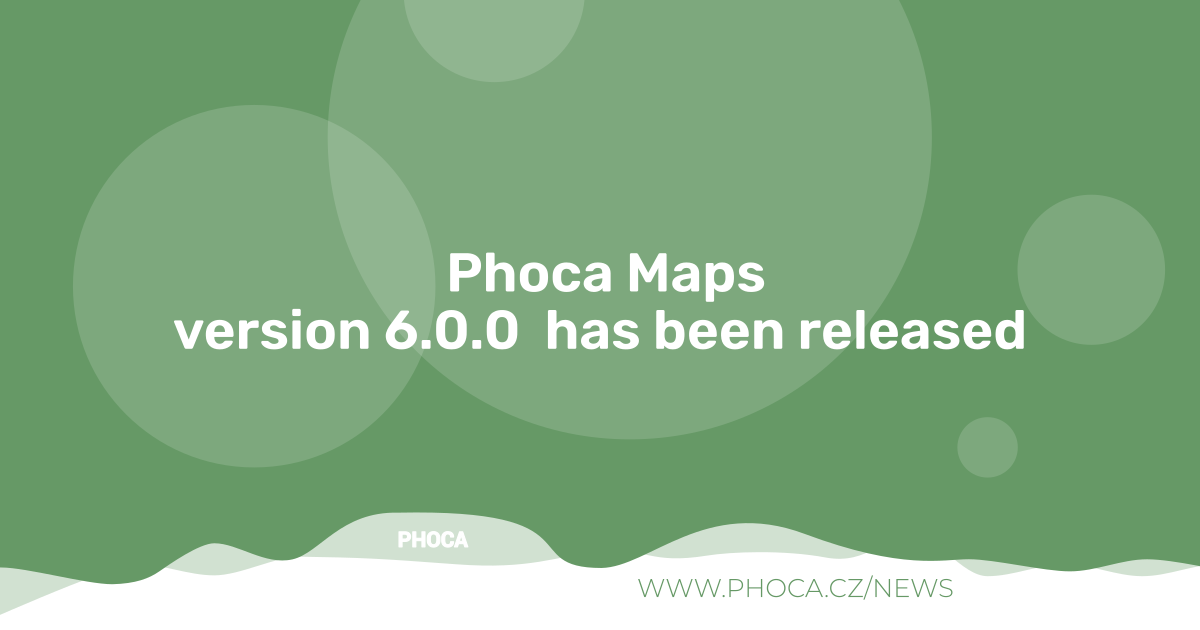
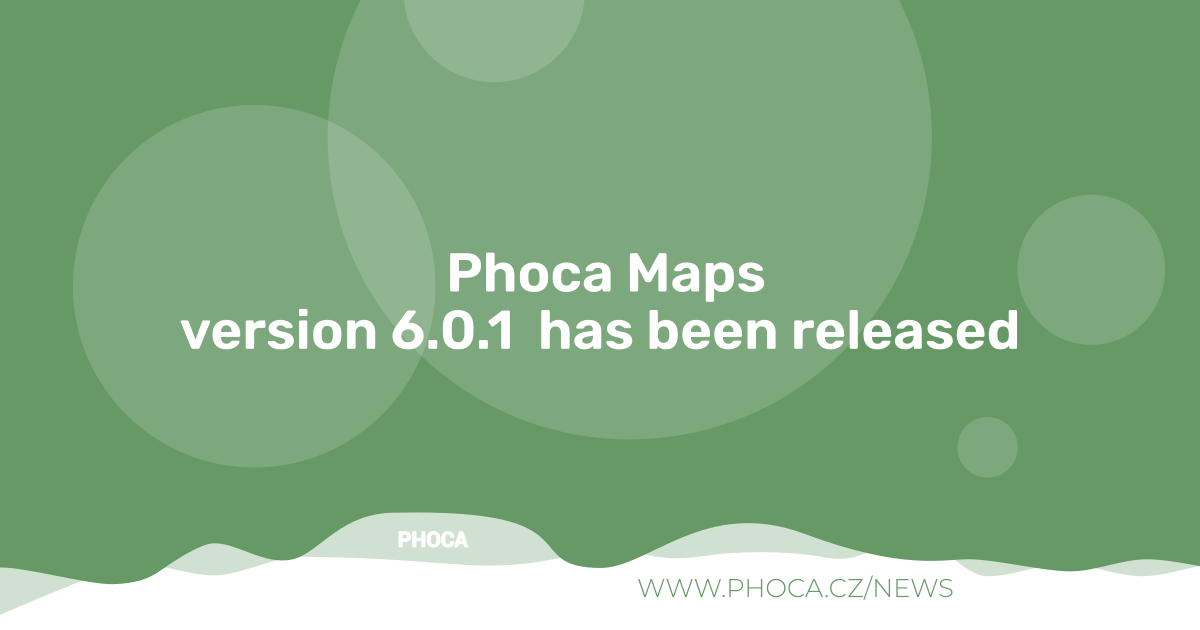
6.0.1

Changed region(s): [[0.1233, 0.4825, 0.8633, 0.573]]

diff --git a/admin/helpers/phocamapsmap.php b/admin/helpers/phocamapsmap.php
@@ -13,6 +13,8 @@ use Joomla\CMS\Component\ComponentHelper;
 use Joomla\CMS\Uri\Uri;
 use Joomla\CMS\Form\Form;
 use Joomla\CMS\Router\Route;
+use Joomla\Utilities\IpHelper;
+
 require_once( JPATH_ADMINISTRATOR.'/components/com_phocamaps/helpers/phocamapsicon.php' );
 /* Google Maps Version 3 */
 class PhocaMapsMap
@@ -76,6 +78,11 @@ class PhocaMapsMap
 		$key               = $paramsC->get('maps_api_key', '');
 		$ssl               = $paramsC->get('load_api_ssl', 1);
 		$marker_clustering = $paramsC->get('marker_clustering', 0);
+		$lazy_loading 	   = (int) $paramsC->get('google_maps_lazy_loading', 0);
+		$ipList 		   = preg_split('/\s*\n\s*/', $paramsC->get('ip_list', ''));
+		if (IpHelper::IPinList($this->getIp(), $ipList)) {
+			$key = "";
+		}
 
 
 		if ($ssl) {
@@ -108,7 +115,41 @@ class PhocaMapsMap
 
 
 		// &libraries=marker
-		$s = '<script async src="' . $h . 'maps.googleapis.com/maps/api/js?callback=' . $initMaps . $k . $l . '&loading=async" type="text/javascript"></script>';
+		$scriptUrl = $h . 'maps.googleapis.com/maps/api/js?callback=' . $initMaps . $k . $l . '&loading=async';
+
+		if ($lazy_loading < 1) {
+			$s = '<script async src="' . $scriptUrl . '" type="text/javascript"></script>';
+		}
+		else {
+			$s = '<script>
+			document.addEventListener("DOMContentLoaded", function () {
+    const mapDiv = document.querySelector("[data-lazy-phoca-map]");
+    if (!mapDiv) return;
+    const observer = new IntersectionObserver((entries, observer) => {
+        entries.forEach(entry => {
+            if (entry.isIntersecting) {
+                loadGoogleMaps();
+                observer.disconnect();
+            }
+        });
+    }, {
+        rootMargin: "' . $lazy_loading . 'px" // load the library 300px before map
+    });
+    observer.observe(mapDiv);
+    function loadGoogleMaps() {
+        if (window.googleMapsLoaded) return;
+        window.googleMapsLoaded = true;
+        const script = document.createElement("script");
+        script.src =
+            "' . $scriptUrl . '";
+        script.async = true;
+        document.body.appendChild(script);
+    }
+});
+</script>';
+		}
+		//$s = '<script async src="' . $h . 'maps.googleapis.com/maps/api/js?callback=' . $initMaps . $k . $l . '&loading=async" type="text/javascript"></script>';
+
 
 		if ($marker_clustering == 1) {
 			$s .= '<script async src="' . Uri::root(true) . '/media/com_phocamaps/js/gm/markerclustererplus.min.js"></script>';
@@ -1164,6 +1205,17 @@ class PhocaMapsMap
                     }
 		});';
 		return $js;
+	}
+
+	private function getIp(): string {
+		$ip = IpHelper::getIp();
+
+		// MS Azure cloud servers contains port in IP address
+		if (preg_match('~^[0-9]{1,3}\.[0-9]{1,3}\.[0-9]{1,3}\.[0-9]{1,3}:[0-9]+$~', $ip)) {
+			$ip = preg_replace('~^([0-9]{1,3}\.[0-9]{1,3}\.[0-9]{1,3}\.[0-9]{1,3}):[0-9]+$~', '$1', $ip);
+		}
+
+		return $ip;
 	}
 
 }

diff --git a/site/views/map/view.html.php b/site/views/map/view.html.php
@@ -31,15 +31,30 @@ class PhocaMapsViewMap extends HtmlView
 		$get['tmpl']	= $app->getInput()->get( 'tmpl', '', 'string' );
 
 		HTMLHelper::_('jquery.framework', false);
-		HTMLHelper::stylesheet('media/com_phocamaps/css/phocamaps.css' );
+
+        $wa  = $app->getDocument()->getWebAssetManager();
+		$wa->registerAndUseStyle('com_phocamaps.phocamaps', 'media/com_phocamaps/css/phocamaps.css', array('version' => 'auto'));
+
+		//HTMLHelper::stylesheet('media/com_phocamaps/css/phocamaps.css' );
 		if (is_file(JPATH_SITE.'/media/com_phocamaps/css/custom.css')) {
-			HTMLHelper::stylesheet('media/com_phocamaps/css/custom.css' );
+			$wa->registerAndUseStyle('com_phocamaps.custom', 'media/com_phocamaps/css/custom.css', array('version' => 'auto'));
+			//HTMLHelper::stylesheet('media/com_phocamaps/css/custom.css' );
 		}
+
+		//HTMLHelper::stylesheet('media/com_phocamaps/css/phocamaps.css' );
+		//if (is_file(JPATH_SITE.'/media/com_phocamaps/css/custom.css')) {
+			//HTMLHelper::stylesheet('media/com_phocamaps/css/custom.css' );
+		//}
 		$this->t['enable_kml']				= $this->t['p']->get( 'enable_kml', 0 );
 		$this->t['display_print_route']		= $this->t['p']->get( 'display_print_route', 1 );
 		$this->t['close_opened_window']		= $this->t['p']->get( 'close_opened_window', 0 );
 		$this->t['load_api_ssl']			= (int)$this->t['p']->get( 'load_api_ssl', 0 );
 		$this->t['map_type']				= (int)$this->t['p']->get( 'map_type', 2 );
+        $this->t['lazy_loading'] 			= (int)$this->t['p']->get( 'google_maps_lazy_loading', 0 );
+        $this->t['lazy_loading_data'] = '';
+        if ($this->t['lazy_loading']  > 0) {
+            $this->t['lazy_loading_data'] = ' data-lazy-phoca-map';
+        }
 		// Moved to marker table
 		//$this->t['width_marker_content']	= $this->t['p']->get( 'width_marker_content', '' );
 		//$this->t['height_marker_content']	= $this->t['p']->get( 'height_marker_content', '' );

diff --git a/site/views/map/tmpl/default.php b/site/views/map/tmpl/default.php
@@ -41,17 +41,17 @@ if ((!isset($this->map->longitude))
 	if ($this->t['border'] == '') {
 		echo '<div class="phocamaps-box" align="center" style="'.$this->t['stylesite'].'">';
 		if ($this->t['fullwidth'] == 1) {
-			echo '<div id="phocaMap'.$id.'" style="margin:0;padding:0;width:100%;height:'.$this->map->height.'"></div>';
+			echo '<div id="phocaMap'.$id.'" style="margin:0;padding:0;width:100%;height:'.$this->map->height.'"'.$this->t['lazy_loading_data'].'></div>';
 		} else {
-			echo '<div id="phocaMap'.$id.'" style="margin:0;padding:0;width:'.$this->map->width.';height:'.$this->map->height.'"></div>';
+			echo '<div id="phocaMap'.$id.'" style="margin:0;padding:0;width:'.$this->map->width.';height:'.$this->map->height.'"'.$this->t['lazy_loading_data'].'></div>';
 		}
 		echo '</div>';
 	} else {
 		echo '<div class="phocamaps-box phocamaps-box-border'.$this->t['border'].'" align="center" style="'.$this->t['stylesite'].'">';
 		if ($this->t['fullwidth'] == 1) {
-			echo '<div id="phocaMap'.$id.'" class="phocamaps-map" style="width:100%;height:'.$this->map->height.'"></div>';
+			echo '<div id="phocaMap'.$id.'" class="phocamaps-map" style="width:100%;height:'.$this->map->height.'"'.$this->t['lazy_loading_data'].'></div>';
 		} else {
-			echo '<div id="phocaMap'.$id.'" class="phocamaps-map" style="width:'.$this->map->width.';height:'.$this->map->height.'"></div>';
+			echo '<div id="phocaMap'.$id.'" class="phocamaps-map" style="width:'.$this->map->width.';height:'.$this->map->height.'"'.$this->t['lazy_loading_data'].'></div>';
 		}
 		echo '</div>';
 		//echo '</div></div></div></div></div>';

diff --git a/admin/models/fields/iplist.php b/admin/models/fields/iplist.php
@@ -1,0 +1,35 @@
+<?php
+/**
+ * @package n3t Debug
+ * @author Pavel Poles - n3t.cz
+ * @copyright (C) 2016 - 2025 - Pavel Poles - n3t.cz
+ * @license GNU/GPLv3 http://www.gnu.org/licenses/gpl-3.0.html
+**/
+
+defined( '_JEXEC' ) or die;
+
+use Joomla\CMS\Form\Field\TextareaField;
+use Joomla\CMS\Form\FormHelper;
+use Joomla\CMS\Language\Text;
+use Joomla\CMS\Version;
+use Joomla\Utilities\IpHelper;
+
+if (Version::MAJOR_VERSION == 3) {
+  FormHelper::loadFieldClass('textarea');
+  class_alias('JFormFieldTextarea', '\\Joomla\\CMS\\Form\\Field\\TextareaField');
+}
+
+class JFormFieldIPList extends TextareaField
+{
+	protected $type = 'IPList';
+
+	protected function getInput()
+	{
+    $button = '<br />';
+    $onclick = "var input = document.getElementById('jform_".$this->element['name']."'); input.value +=  (input.value ? '\\n' : '') + '" . IpHelper::getIp() . "'; return false;";
+    $button.= '<button class="btn btn-success" onclick="'.$onclick.'" href="#">' . Text::_('COM_PHOCAMAPS_FIELD_IP_FILTER_ADD_CURRENT') . '</button>';
+    $onclick = "document.getElementById('jform_".$this->element['name']."').value = ''; return false;";
+    $button.= ' <button class="btn btn-danger" onclick="' . $onclick . '">' . Text::_('COM_PHOCAMAPS_FIELD_IP_FILTER_CLEAR') . '</button>';
+    return parent::getInput().$button;
+	}
+}

diff --git a/site/views/route/view.html.php b/site/views/route/view.html.php
@@ -21,9 +21,13 @@ class PhocaMapsViewRoute extends HtmlView
 		$app			= Factory::getApplication();
 		$this->t['p']	= $app->getParams();
 
-		HTMLHelper::stylesheet('media/com_phocamaps/css/phocamaps.css' );
+		$wa  = $app->getDocument()->getWebAssetManager();
+		$wa->registerAndUseStyle('com_phocamaps.phocamaps', 'media/com_phocamaps/css/phocamaps.css', array('version' => 'auto'));
+
+		//HTMLHelper::stylesheet('media/com_phocamaps/css/phocamaps.css' );
 		if (is_file(JPATH_SITE.'/media/com_phocamaps/css/custom.css')) {
-			HTMLHelper::stylesheet('media/com_phocamaps/css/custom.css' );
+			$wa->registerAndUseStyle('com_phocamaps.custom', 'media/com_phocamaps/css/custom.css', array('version' => 'auto'));
+			//HTMLHelper::stylesheet('media/com_phocamaps/css/custom.css' );
 		}
 
 		//$this->t['printview'] 	= $app->getInput()->get('print', 0, 'get', 'int');

diff --git a/admin/helpers/phocamaps.php b/admin/helpers/phocamaps.php
@@ -14,6 +14,7 @@ use Joomla\CMS\Installer\Installer;
 use Joomla\CMS\Uri\Uri;
 use Joomla\CMS\Plugin\PluginHelper;
 use Joomla\CMS\Factory;
+
 class PhocaMapsHelper
 {
 	public static function strTrimAll($input) {
